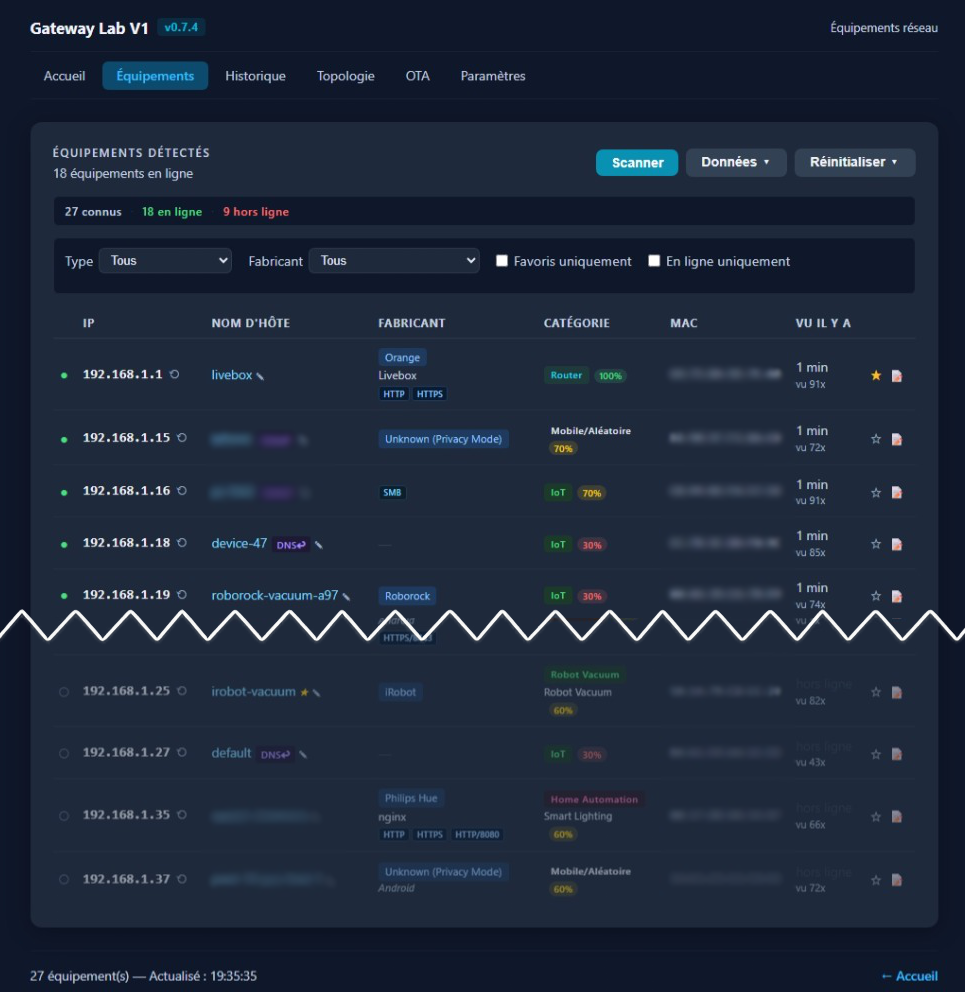
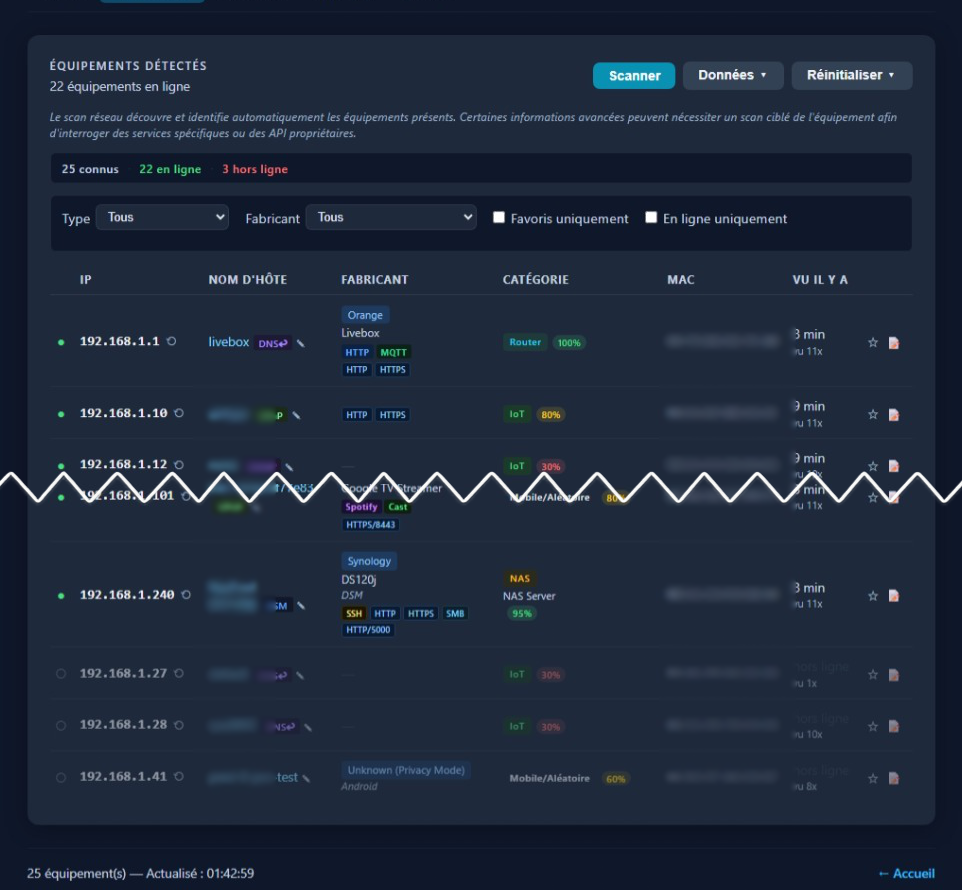
update screenshots

diff --git a/include/web_interface_ota.h b/include/web_interface_ota.h
@@ -1,0 +1,9 @@
+// Auto-generated by tools/minify_web.py — NE PAS MODIFIER MANUELLEMENT
+// Source : web_src/ota.html
+#pragma once
+
+static const char OTA_PAGE[] PROGMEM = R"HTML(
+<!DOCTYPE html><html lang="fr"><head><meta charset="UTF-8"><meta name="viewport" content="width=device-width, initial-scale=1.0"><title>Gateway Lab V1 — Mise à jour OTA</title><style>*{box-sizing:border-box;margin:0;padding:0;}body{font-family:'Segoe UI',system-ui,sans-serif;background:#0f172a;color:#e2e8f0;min-height:100vh;display:flex;flex-direction:column;align-items:center;padding:0 1rem;}.site-hdr,nav,.card,.shortcuts,footer{width:100%;max-width:520px;}.page-scan .site-hdr,.page-scan nav,.page-scan .card,.page-scan footer{max-width:960px;}.site-hdr{display:flex;justify-content:space-between;align-items:center;padding:1.1rem 0 0.9rem;}.site-name{font-size:1.05rem;font-weight:700;color:#f1f5f9;display:flex;align-items:center;gap:0.5rem;}.site-ver{font-size:0.72rem;font-weight:700;letter-spacing:0.05em;color:#06b6d4;background:#0c2a40;padding:0.15rem 0.5rem;border-radius:4px;}.site-tag{font-size:0.8rem;color:#c3d0e0;}nav{display:flex;gap:0.25rem;padding:0.6rem 0;border-top:1px solid #ffffff0a;border-bottom:1px solid #ffffff0a;margin-bottom:1.5rem;}nav a{font-size:0.875rem;padding:0.35rem 0.9rem;border-radius:6px;text-decoration:none;color:#c3d0e0;transition:background 0.15s,color 0.15s;}nav a:hover{background:#1e293b;color:#e2e8f0;}nav a.active{background:#0c4a6e;color:#38bdf8;font-weight:600;}.card{background:#1e293b;border-radius:12px;padding:1.5rem;box-shadow:0 4px 24px rgba(0,0,0,0.3);margin-bottom:1.5rem;}.card-center{padding:1.75rem;text-align:center;}.card-header{display:flex;justify-content:space-between;align-items:center;margin-bottom:1rem;}.page-scan .card-header{flex-wrap:wrap;gap:0.5rem;}.card-title{font-size:0.75rem;text-transform:uppercase;letter-spacing:0.12em;color:#c3d0e0;font-weight:600;}.card-meta{font-size:0.85rem;color:#c3d0e0;margin-top:0.2rem;}footer{display:flex;justify-content:space-between;align-items:center;padding:1rem 0 1.5rem;border-top:1px solid #ffffff0a;margin-top:auto;font-size:0.85rem;color:#c3d0e0;}footer a{color:#38bdf8;text-decoration:none;font-weight:500;}footer a:hover{text-decoration:underline;}.info-row{display:flex;justify-content:space-between;align-items:center;padding:0.65rem 0;border-bottom:1px solid #ffffff0a;}.info-row:last-child{border-bottom:none;}.info-label{color:#c3d0e0;font-size:0.9rem;}.info-value{color:#f1f5f9;font-size:0.9rem;font-weight:600;text-align:right;}.badge{padding:0.2rem 0.7rem;border-radius:999px;font-size:0.75rem;font-weight:700;letter-spacing:0.04em;}.badge-ok{background:#064e3b;color:#10b981;}.badge-warn{background:#451a03;color:#f59e0b;}.shortcuts{display:flex;gap:0.75rem;margin-bottom:1.5rem;}.shortcut{flex:1;padding:0.875rem 0.5rem;background:#1e293b;color:#c3d0e0;border:1px solid #ffffff0a;border-radius:10px;font-size:0.9rem;font-weight:600;text-align:center;text-decoration:none;transition:background 0.2s,color 0.2s;}.shortcut:hover{background:#0c4a6e;color:#38bdf8;}.shortcut .icon{display:block;font-size:1.4rem;margin-bottom:0.3rem;}.scan-btn{font-size:0.875rem;padding:0.4rem 1rem;background:#0891b2;color:#fff;border:none;border-radius:7px;cursor:pointer;font-weight:600;transition:background 0.2s;}.scan-btn:hover{background:#06b6d4;}.scan-btn:disabled{background:#334155;color:#9aacc2;cursor:default;}.header-actions{display:flex;align-items:center;gap:0.5rem;}.reset-menu{position:relative;}.reset-btn{font-size:0.875rem;padding:0.4rem 1rem;background:#334155;color:#f1f5f9;border:none;border-radius:7px;cursor:pointer;font-weight:600;transition:background 0.2s;}.reset-btn:hover{background:#475569;}.reset-menu-list{display:none;position:absolute;right:0;top:calc(100%+0.35rem);background:#1e293b;border:1px solid #ffffff14;border-radius:8px;box-shadow:0 8px 24px #[phone redacted];min-width:220px;z-index:20;overflow:hidden;}.reset-menu-list.open{display:block;}.reset-menu-list button,.reset-menu-list a{display:block;width:100%;text-align:left;padding:0.6rem 0.9rem;background:none;border:none;color:#e2e8f0;font-size:0.85rem;cursor:pointer;text-decoration:none;box-sizing:border-box;}.reset-menu-list button:hover,.reset-menu-list a:hover{background:#0c4a6e;color:#38bdf8;}.reset-menu-sep{height:1px;margin:0.25rem 0;background:#ffffff14;}.progress-wrap{width:100%;background:#0f172a;border-radius:6px;height:4px;margin-bottom:1rem;display:none;}.progress-bar{height:100%;background:#06b6d4;border-radius:6px;width:0;transition:width 0.5s;}.scan-info{font-size:0.85rem;color:#38bdf8;margin-bottom:0.75rem;}.scan-hint{font-size:0.78rem;color:#9aacc2;font-style:italic;margin-bottom:0.75rem;line-height:1.4;}#rescan-progress-row td{padding:0.4rem 0.5rem 0.6rem;border-bottom:1px solid #ffffff0a;background:#0c2a3a40;}.rescan-row-banner{display:flex;align-items:center;gap:0.6rem;background:#0c2a3a;border:1px solid #0e7490;border-radius:8px;padding:0.45rem 0.7rem;font-size:0.8rem;color:#7dd3fc;font-weight:600;}.rescan-row-text{white-space:nowrap;}.rescan-row-bar-wrap{flex:1;height:8px;background:#082030;border-radius:999px;overflow:hidden;}.rescan-row-bar{height:100%;width:0;background:linear-gradient(90deg,#06b6d4,#38bdf8);border-radius:999px;transition:width 0.4s ease;}.rescan-row-pct{font-family:monospace;color:#e0f2fe;min-width:2.6em;text-align:right;}.table-wrap{overflow-x:auto;}table{width:100%;border-collapse:collapse;font-size:0.85rem;min-width:620px;}th{text-align:left;color:#c3d0e0;font-size:0.72rem;text-transform:uppercase;letter-spacing:0.08em;padding:0.5rem;border-bottom:1px solid #ffffff14;white-space:nowrap;}td{padding:0.6rem 0.5rem;border-bottom:1px solid #ffffff0a;color:#e2e8f0;vertical-align:middle;}tr:last-child td{border-bottom:none;}tr:hover td{background:#ffffff06;}.ip-cell{font-weight:700;color:#f1f5f9;font-family:monospace;font-size:0.87rem;white-space:nowrap;}.rescan-btn{font-size:0.75rem;color:#9aacc2;background:none;border:none;cursor:pointer;padding:0 0.2rem;vertical-align:middle;margin-left:0.2rem;}.rescan-btn:hover{color:#38bdf8;}.rescan-btn:disabled{color:#334155;cursor:default;}.mac-cell{font-family:monospace;font-size:0.78rem;color:#c3d0e0;white-space:nowrap;}.name-cell{color:#7dd3fc;max-width:220px;overflow:hidden;display:-webkit-box;-webkit-line-clamp:2;line-clamp:2;-webkit-box-orient:vertical;word-break:break-word;overflow-wrap:anywhere;}.mfr-model{font-size:0.75rem;color:#c3d0e0;margin-top:0.2rem;}.mfr-os{font-size:0.7rem;color:#9aacc2;margin-top:0.1rem;font-style:italic;}.subtype-tag{display:block;font-size:0.7rem;color:#c3d0e0;margin-top:0.2rem;}.seen-cell{color:#c3d0e0;white-space:nowrap;}.empty-msg{color:#c3d0e0;font-size:0.875rem;text-align:center;padding:1.5rem 0;}.none{color:#334155;}.vendor-badge{font-size:0.7rem;background:#1e3a5f;color:#93c5fd;border-radius:4px;padding:0.15rem 0.45rem;white-space:nowrap;}.source-badge{font-size:0.65rem;border-radius:3px;padding:0.1rem 0.35rem;margin-left:0.3rem;vertical-align:middle;white-space:nowrap;font-weight:600;cursor:default;}.source-mdns{background:#064e3b;color:#34d399;}.source-ptr{background:#1e1a36;color:#a78bfa;}.source-self{background:#0c2a3a;color:#38bdf8;}.source-ssdp{background:#1c2a1a;color:#86efac;}.source-hue{background:#2a1a10;color:#fb923c;}.source-synology{background:#10182a;color:#60a5fa;}.source-freebox{background:#1a102a;color:#c084fc;}.source-netbios{background:#102a1c;color:#34d399;}.source-snmp{background:#1a1c10;color:#d9f99d;}.source-cast{background:#142a18;color:#86efac;}.source-sonos{background:#1c1c1c;color:#e5e5e5;}.source-roku{background:#2a1530;color:#e9a6ff;}.source-samsung{background:#10202a;color:#7dd3fc;}.type-badge{font-size:0.65rem;border-radius:4px;padding:0.15rem 0.45rem;white-space:nowrap;font-weight:600;letter-spacing:0.03em;}.type-iot{background:#1c3a2a;color:#4ade80;}.type-mobile{background:#1e2e4a;color:#818cf8;}.type-network{background:#1e3a3a;color:#22d3ee;}.type-router{background:#1e3a3a;color:#22d3ee;}.type-gateway{background:#0c2a3a;color:#38bdf8;}.type-computer{background:#2a2a1e;color:#facc15;}.type-sbc{background:#2a1e3a;color:#c084fc;}.type-smarthome{background:#2a1e2a;color:#f472b6;}.type-homeauto{background:#2a1e2a;color:#f472b6;}.type-audio{background:#1e2a2a;color:#34d399;}.type-tv{background:#2a1e1e;color:#fb923c;}.type-streaming{background:#2a1e1e;color:#fb923c;}.type-nas{background:#2a2a1e;color:#fbbf24;}.type-camera{background:#2a1e1e;color:#f87171;}.type-security{background:#2a1e1e;color:#f87171;}.type-printer{background:#1e2a1e;color:#86efac;}.type-robot{background:#1c3a2a;color:#4ade80;}.type-smarthub{background:#2a1c2a;color:#e879f9;}.type-speaker{background:#1e2a1e;color:#4ade80;}.svc-list{margin-top:0.3rem;display:flex;flex-wrap:wrap;gap:0.15rem;}.svc-badge{font-size:0.58rem;font-weight:700;letter-spacing:0.03em;border-radius:3px;padding:0.1rem 0.3rem;white-space:nowrap;cursor:default;}.svc-web{background:#0c2240;color:#60a5fa;}.svc-ssh{background:#2a2010;color:#fbbf24;}.svc-share{background:#102030;color:#67e8f9;}.svc-apple{background:#2a1010;color:#fb7185;}.svc-google{background:#102010;color:#4ade80;}.svc-music{background:#1a1030;color:#c084fc;}.svc-iot{background:#0c2218;color:#34d399;}.svc-print{background:#102018;color:#86efac;}.svc-other{background:#1e293b;color:#c3d0e0;}.port-list{margin-top:0.25rem;display:flex;flex-wrap:wrap;gap:0.15rem;}.port-badge{font-size:0.55rem;font-weight:600;letter-spacing:0.02em;border-radius:3px;padding:0.08rem 0.28rem;white-space:nowrap;cursor:default;border:1px solid transparent;}.port-http{background:#0a1a30;color:#93c5fd;border-color:#1e3a5f;}.port-ssh{background:#1a1500;color:#fde68a;border-color:#3d2e00;}.port-smb{background:#0d1f2d;color:#7dd3fc;border-color:#1e3a4f;}.port-rdp{background:#200a2a;color:#d8b4fe;border-color:#4c1d6e;}.port-rtsp{background:#0a1e18;color:#6ee7b7;border-color:#134e3a;}.port-mqtt{background:#0a1818;color:#5eead4;border-color:#134040;}.port-print{background:#0a1a10;color:#86efac;border-color:#14532d;}.port-ha{background:#1a0f00;color:#fdba74;border-color:#431407;}.port-legacy{background:#1a1010;color:#fca5a5;border-color:#450a0a;}.port-other{background:#111827;color:#9aacc2;border-color:#1f2937;}.stats-bar{display:flex;align-items:center;gap:0.6rem;padding:0.45rem 0.75rem;background:#0f172a;border:1px solid #1e293b;border-radius:6px;margin-bottom:0.75rem;font-size:0.78rem;}.stat-sep{color:#334155;font-weight:300;}.stat-item{font-weight:600;letter-spacing:0.02em;}.stat-known{color:#c3d0e0;}.stat-online{color:#4ade80;}.stat-offline{color:#f87171;}.status-cell{text-align:center;width:1.5rem;padding:0 0.25rem;}.status-online{color:#4ade80;font-size:0.9rem;line-height:1;cursor:default;}.status-offline{color:#64748b;font-size:0.9rem;line-height:1;cursor:default;}tr.row-offline td{opacity:0.55;}.diag-bar{display:flex;flex-wrap:wrap;align-items:center;gap:0.5rem 1rem;padding:0.45rem 0.75rem;background:#0f172a;border:1px solid #1e293b;border-radius:6px;margin-bottom:0.75rem;font-size:0.74rem;color:#9aacc2;}.diag-item{white-space:nowrap;}.actions-cell{white-space:nowrap;text-align:right;}.fav-btn{font-size:0.95rem;background:none;border:none;cursor:pointer;color:#94a3b8;padding:0 0.2rem;vertical-align:middle;}.fav-btn:hover{color:#fbbf24;}.fav-btn.fav-on{color:#fbbf24;}.notes-btn{font-size:0.8rem;background:none;border:none;cursor:pointer;color:#9aacc2;padding:0 0.2rem;vertical-align:middle;position:relative;}.notes-btn:hover{color:#38bdf8;}.notes-count{font-size:0.6rem;background:#0ea5e9;color:#fff;border-radius:999px;padding:0 0.3rem;margin-left:0.2rem;font-weight:700;}#notes-row td{padding:0.5rem 0.5rem 0.7rem;border-bottom:1px solid #ffffff0a;background:#0c1a2a40;}.notes-panel{background:#0c1a2a;border:1px solid #1e293b;border-radius:8px;padding:0.6rem 0.75rem;}.notes-list{list-style:none;margin:0 0 0.5rem;padding:0;}.note-item{display:flex;align-items:baseline;gap:0.5rem;padding:0.25rem 0;border-bottom:1px solid #ffffff0a;font-size:0.8rem;}.note-item:last-child{border-bottom:none;}.note-date{color:#64748b;font-size:0.7rem;white-space:nowrap;}.note-text{flex:1;color:#e2e8f0;}.note-del{background:none;border:none;color:#64748b;cursor:pointer;font-size:0.7rem;}.note-del:hover{color:#f87171;}.note-empty{color:#475569;font-size:0.8rem;font-style:italic;}.notes-add{display:flex;gap:0.5rem;}.notes-input{flex:1;padding:0.4rem 0.6rem;background:#0f172a;border:1px solid #334155;border-radius:6px;color:#e2e8f0;font-size:0.8rem;}.notes-add-btn{padding:0.4rem 0.8rem;background:#0891b2;color:#fff;border:none;border-radius:6px;font-size:0.8rem;cursor:pointer;}.notes-add-btn:hover{background:#06b6d4;}label{display:block;color:#c3d0e0;font-size:0.9rem;margin-bottom:0.75rem;}input[type=file]{width:100%;padding:0.55rem;background:#0f172a;border:1px solid #334155;border-radius:8px;color:#e2e8f0;margin-bottom:1.25rem;}.btn{display:block;width:100%;padding:0.875rem;background:#0891b2;color:#fff;border:none;border-radius:10px;font-size:1rem;font-weight:600;cursor:pointer;transition:background 0.2s;}.btn:hover{background:#06b6d4;}.btn-danger{background:#7f1d1d;margin-top:0.5rem;}.btn-danger:hover{background:#991b1b;}.progress{width:100%;background:#334155;border-radius:8px;height:10px;display:none;margin-top:1.25rem;overflow:hidden;}.bar{height:100%;background:#06b6d4;width:0;transition:width 0.2s;}#msg{margin-top:1rem;font-size:0.9rem;color:#c3d0e0;min-height:1.25rem;}.card-center .card-title{margin-bottom:1.25rem;}.hist-filters{display:flex;flex-wrap:wrap;gap:0.5rem 1.1rem;padding:0.6rem 0.75rem;background:#0f172a;border:1px solid #1e293b;border-radius:6px;margin-bottom:0.9rem;font-size:0.82rem;color:#cbd5e1;}.hist-filters label{display:flex;align-items:center;gap:0.35rem;cursor:pointer;}.hist-filters input{cursor:pointer;}.hist-filters select{background:#1e293b;border:1px solid #ffffff14;color:#e2e8f0;border-radius:6px;padding:0.25rem 0.5rem;font-size:0.8rem;cursor:pointer;}.hist-entry{display:flex;gap:0.75rem;padding:0.75rem 0;border-bottom:1px solid #ffffff0a;}.hist-entry:last-child{border-bottom:none;}.hist-icon{font-size:1.1rem;line-height:1.4;}.hist-body{flex:1;}.hist-title{font-size:0.9rem;font-weight:600;color:#e2e8f0;}.hist-detail{font-size:0.8rem;color:#c3d0e0;margin-top:0.15rem;}.hist-old{color:#f87171;text-decoration:line-through;}.hist-new-val{color:#4ade80;}.hist-time{font-size:0.72rem;color:#aeb9c9;margin-top:0.2rem;}.hist-new .hist-title{color:#7dd3fc;}.hist-online .hist-title{color:#4ade80;}.hist-offline .hist-title{color:#f87171;}.hist-changed .hist-title{color:#facc15;}.alias-edit{font-size:0.7rem;color:#9aacc2;background:none;border:none;cursor:pointer;padding:0 0.2rem;vertical-align:middle;}.alias-edit:hover{color:#38bdf8;}.alias-tag{font-size:0.75rem;color:#facc15;font-style:italic;}.seen-count{font-size:0.68rem;color:#9aacc2;margin-top:0.1rem;}.conf-badge{display:inline-block;font-size:0.65rem;font-weight:600;padding:0.05rem 0.35rem;border-radius:0.6rem;margin-left:0.3rem;vertical-align:middle;cursor:help;}.conf-high{background:rgba(74,222,128,0.15);color:#4ade80;}.conf-medium{background:rgba(250,204,21,0.15);color:#facc15;}.conf-low{background:rgba(248,113,113,0.15);color:#f87171;}#wifi-list .alias-edit{font-size:0.78rem;color:#f87171;}#wifi-list .alias-edit:hover{color:#ef4444;}#wifi-form input{margin-bottom:0.9rem;}#wifi-msg{margin-top:0.75rem;font-size:0.85rem;color:#c3d0e0;min-height:1.1rem;}</style></head><body class="page-scan"><header class="site-hdr"><div class="site-name">
+ Gateway Lab&nbsp;V1
+ <span class="site-ver" id="site-ver">v—</span></div><span class="site-tag">Mise à jour OTA</span></header><nav><a href="/">Accueil</a><a href="/scan">Équipements</a><a href="/history">Historique</a><a href="/topology">Topologie</a><a href="/update" class="active">OTA</a><a href="/wifi">Paramètres</a></nav><div class="card card-center"><p class="card-title">Mise à jour du firmware</p><form id="f"><label>Sélectionnez le fichier firmware (.bin)</label><input type="file" id="fw" accept=".bin"><button type="submit" class="btn">Mettre à jour</button></form><div class="progress" id="pg"><div class="bar" id="bar"></div></div><p id="msg"></p></div><footer><span id="footer-ts">—</span><a href="/">← Accueil</a></footer><script>fetch('/api/status').then(function(r) { return r.json(); }).then(function(d) { if (d.version) document.getElementById('site-ver').textContent = 'v' + d.version; document.getElementById('footer-ts').textContent = 'Firmware actuel : v' + (d.version || '—'); }).catch(function() {}); document.getElementById('f').addEventListener('submit', function(e) { e.preventDefault(); var file = document.getElementById('fw').files[0]; if (!file) { document.getElementById('msg').textContent = 'Aucun fichier sélectionné.'; return; } var fd = new FormData(); fd.append('firmware', file); var xhr = new XMLHttpRequest(); xhr.upload.onprogress = function(e) { document.getElementById('pg').style.display = 'block'; document.getElementById('bar').style.width = (e.loaded / e.total * 100) + '%'; document.getElementById('msg').textContent = 'Transfert : ' + Math.round(e.loaded / e.total * 100) + '%'; }; xhr.onload = function() { var m = document.getElementById('msg'); if (xhr.status === 200) { m.style.color = '#10b981'; m.textContent = 'Firmware transféré — redémarrage en cours…'; document.getElementById('f').style.display = 'none'; waitForReboot(); } else { m.style.color = '#ef4444'; m.textContent = 'Erreur : ' + xhr.responseText; } }; xhr.open('POST', '/update'); xhr.send(fd); }); function waitForReboot() { var m = document.getElementById('msg'); var dot = 0; var dots = ['', '.', '..', '...']; setTimeout(function poll() { dot = (dot + 1) % 4; m.textContent = 'Redémarrage en cours' + dots[dot]; fetch('/api/status', { cache: 'no-store' }) .then(function(r) { if (r.ok) { m.textContent = 'Redémarrage terminé — redirection…'; setTimeout(function() { window.location.href = '/'; }, 800); } else { setTimeout(poll, 1000); } }) .catch(function() { setTimeout(poll, 1000); }); }, 3000); }</script></body></html>
+)HTML";